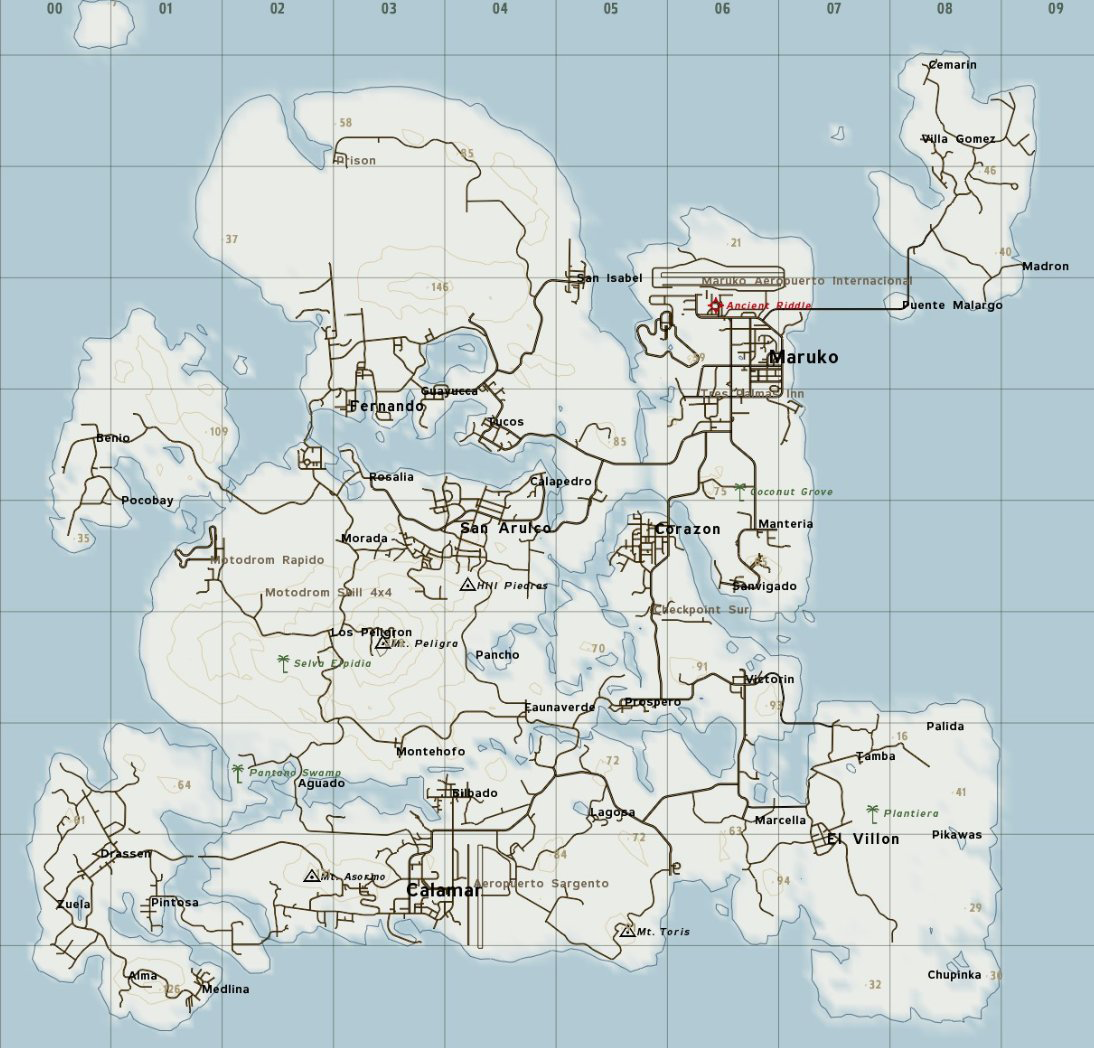
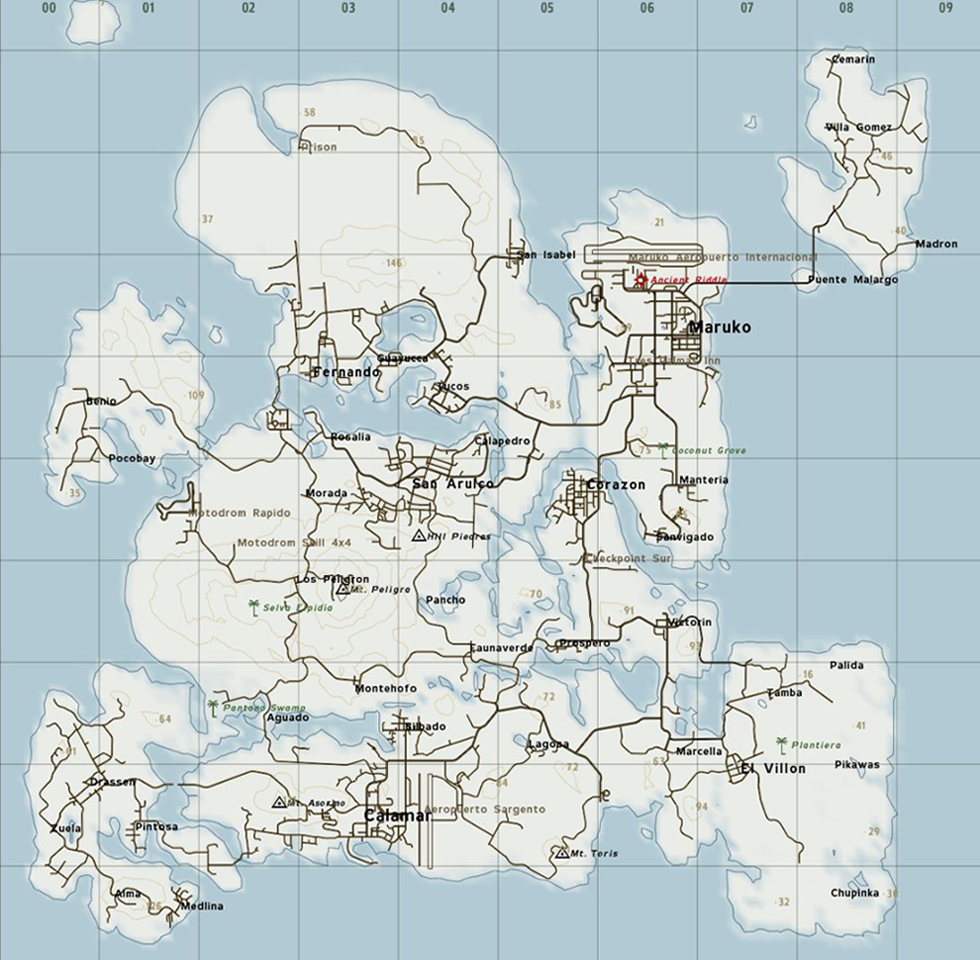
Tweak Lingor

Changed region(s): [[0.5816, 0.5, 0.6122, 0.5312]]

diff --git a/hivetools_reality/include/livemap.php b/hivetools_reality/include/livemap.php
@@ -66,10 +66,10 @@ $ADDY       = '15';
 if ($DZ_MAP == '2'){
 $WORLD_X    = '10000';
 $WORLD_Y    = '10000';
-$MAP_H      = '1048';
-$MAP_W      = '1094';
-$ADDX       = '30';
-$ADDY       = '15';
+$MAP_H      = '960';
+$MAP_W      = '980';
+$ADDX       = '-17';
+$ADDY       = '55';
 }
 
 //UTES
